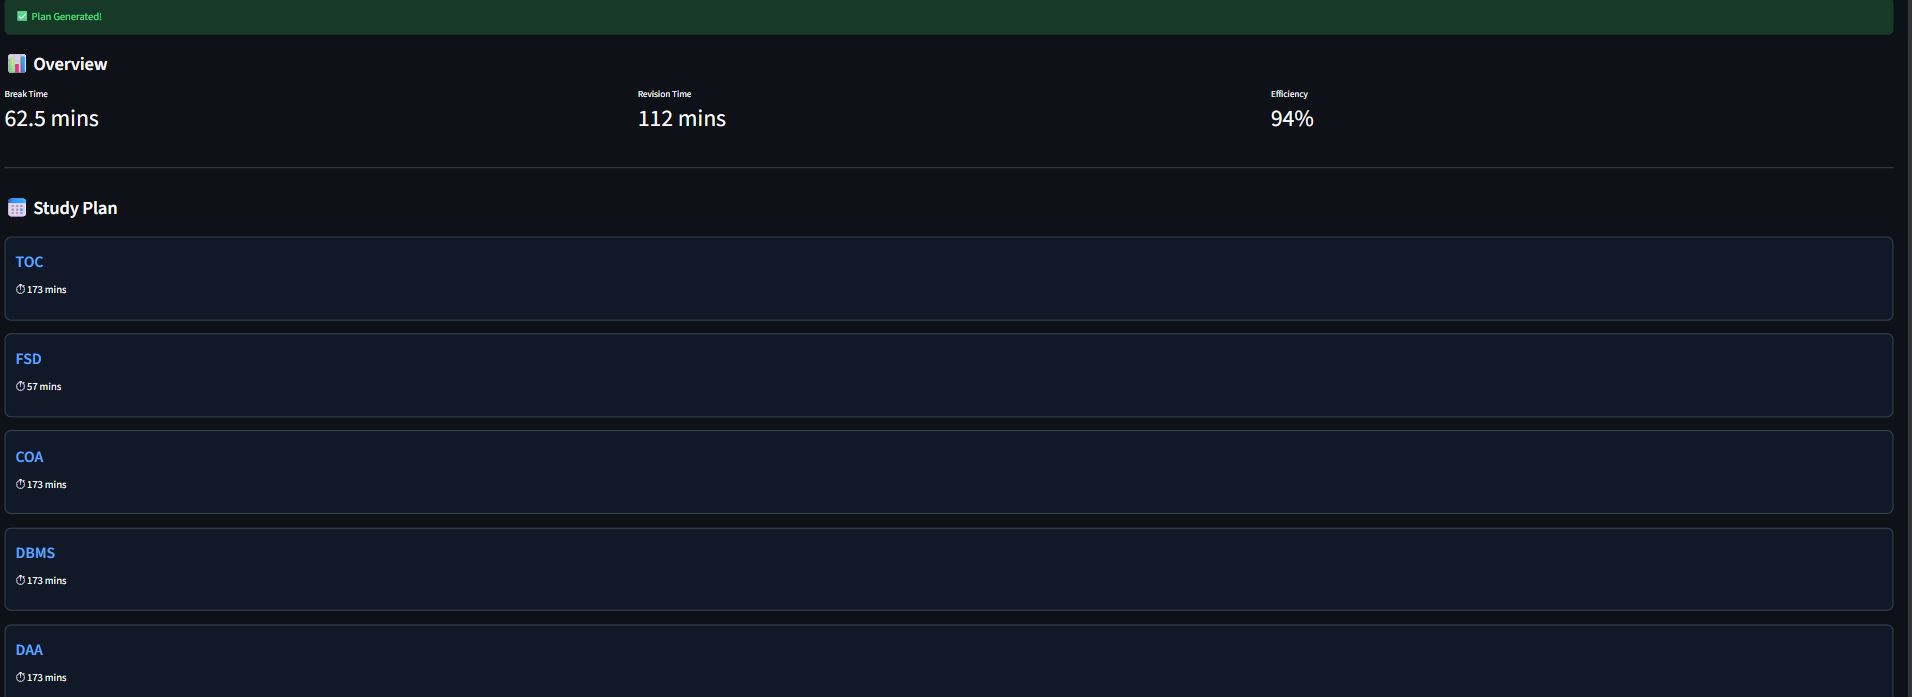
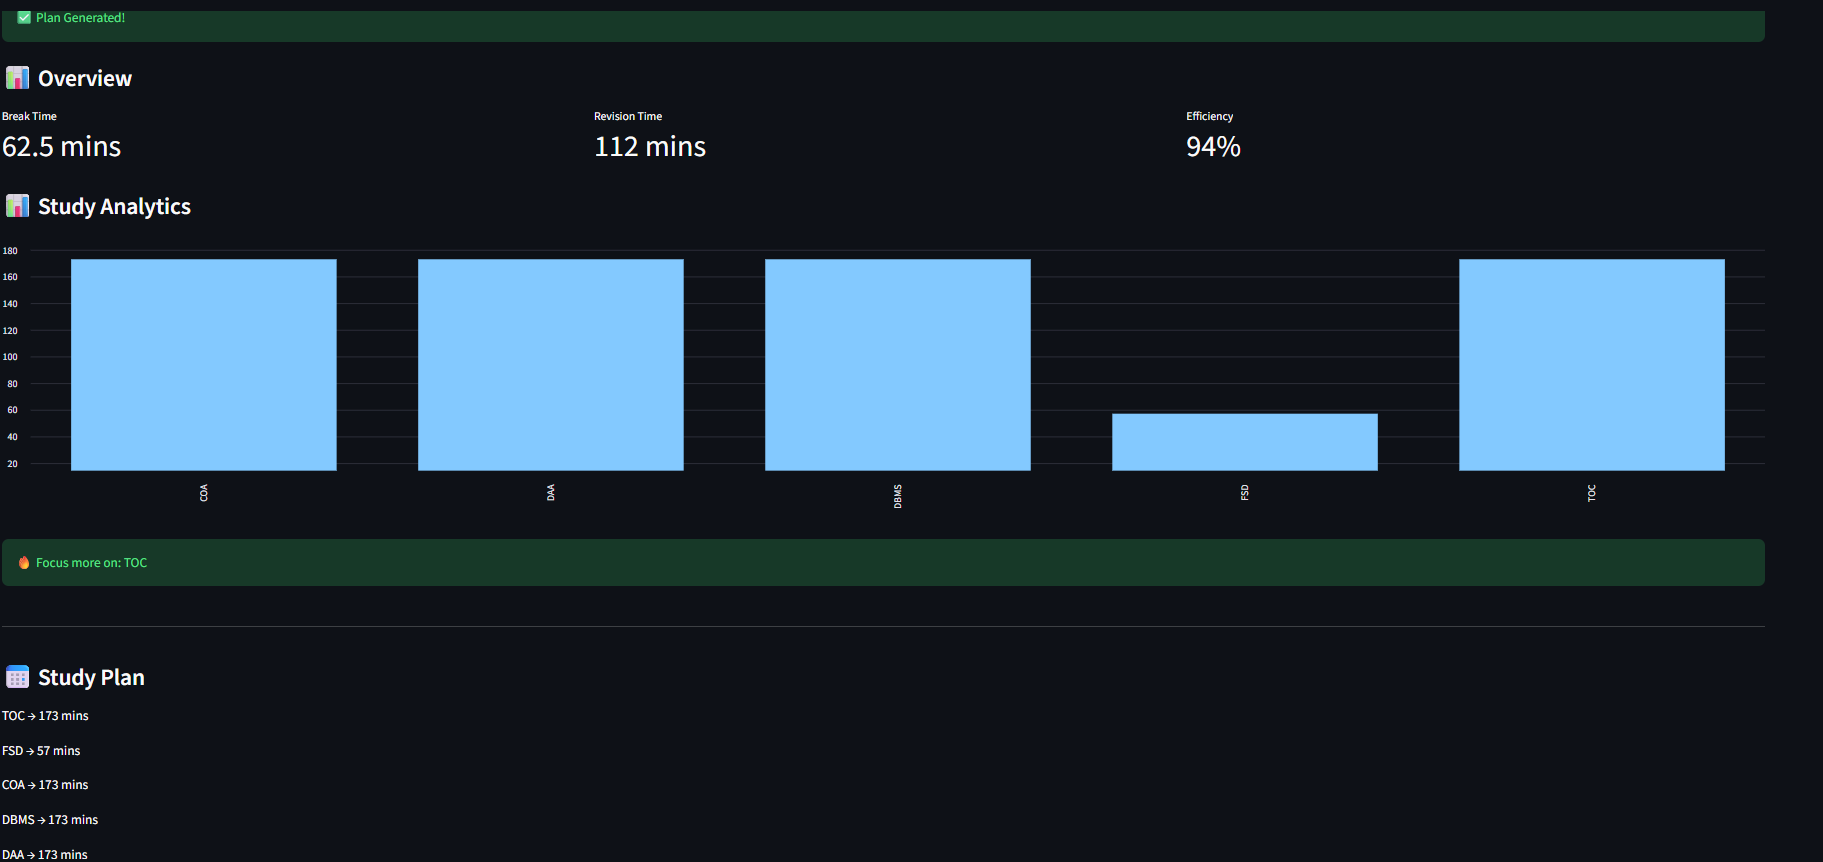
made changes in code

diff --git a/app_streamlit.py b/app_streamlit.py
@@ -4,12 +4,12 @@ from scheduler import generate_schedule
 from calendar_integration import create_events
 from fpdf import FPDF
 
+# ⚙ PAGE CONFIG
 st.set_page_config(
     page_title="Accessible Smart Study Planner",
     page_icon="🧠",
     layout="wide"
 )
-
 
 # 📄 PDF GENERATION
 def generate_pdf(result):
@@ -38,26 +38,14 @@ def generate_pdf(result):
         pdf.cell(60, 10, slot["subject"], 1)
         pdf.ln()
 
-    pdf.ln(5)
-
-    pdf.set_font("Arial", 'B', 12)
-    pdf.cell(200, 10, "Summary", ln=True)
-
-    pdf.set_font("Arial", size=10)
-    pdf.cell(200, 8, f"Break Time: {result['break_time']} mins", ln=True)
-    pdf.cell(200, 8, f"Revision Time: {result['revision_time']} mins", ln=True)
-    pdf.cell(200, 8, f"Efficiency Score: {result['score']}%", ln=True)
-
     file_path = "study_plan.pdf"
     pdf.output(file_path)
-
     return file_path
 
 
-# ⚙ PAGE CONFIG
-
-
+# 🧠 TITLE
 st.title("🧠 Smart Study Planner")
+st.caption("Accessible and user-friendly study planner with structured output")
 
 # 🎯 PROBLEM ALIGNMENT
 st.markdown("""
@@ -65,22 +53,17 @@ st.markdown("""
 Students struggle to effectively manage study time and prioritize subjects.
 
 ### 💡 Solution
-This application intelligently allocates study time based on subject priority,
-available time, and generates optimized study plans with structured timetables.
+This application intelligently allocates study time based on subject priority.
 
 ### 🧠 Approach
-- Uses weighted priority-based allocation
-- Generates interleaved schedules
-- Optimizes learning efficiency
+- Priority-based allocation
+- Interleaved scheduling
+- Optimized learning efficiency
 """)
-
-st.caption("AI-powered personalized study scheduling")
-
-
 
 st.divider()
 
-# 📥 INPUT SECTION
+# 📥 INPUT
 st.subheader("📥 Input Details")
 
 col1, col2, col3 = st.columns(3)
@@ -94,38 +77,40 @@ with col2:
 with col3:
     minutes = st.number_input("Minutes", min_value=0, value=0)
 
+st.caption("Enter subjects and priorities carefully (comma-separated)")
+
 subjects_input = st.text_input(
-    "Subjects (comma separated)",
+    "Subjects",
     placeholder="TOC, DBMS, FSD",
     help="Enter subjects separated by commas"
 )
+
 priority_input = st.text_input(
-    "Priorities (high/medium/low)",
+    "Priorities",
     placeholder="high, medium, low",
     help="Enter priority for each subject"
 )
 
 # 💡 SUGGESTION ENGINE
 if subjects_input and priority_input:
-    subjects = [s.strip().upper() for s in subjects_input.split(",")]
-    priorities_list = [p.strip().lower() for p in priority_input.split(",")]
+    subjects_temp = [s.strip().upper() for s in subjects_input.split(",")]
+    priorities_temp = [p.strip().lower() for p in priority_input.split(",")]
 
-    if len(subjects) == len(priorities_list):
+    if len(subjects_temp) == len(priorities_temp):
         weight_map = {"high": 3, "medium": 2, "low": 1}
-        total_weight = sum(weight_map.get(p, 2) for p in priorities_list)
+        total_weight = sum(weight_map.get(p, 2) for p in priorities_temp)
 
         if total_weight > 0:
             st.info("💡 Suggested Time Distribution")
-            for i, sub in enumerate(subjects):
-                percent = (weight_map.get(priorities_list[i], 2) / total_weight) * 100
+            for i, sub in enumerate(subjects_temp):
+                percent = (weight_map.get(priorities_temp[i], 2) / total_weight) * 100
                 st.write(f"{sub} → {int(percent)}%")
 
 st.divider()
 
-# 🚀 GENERATE PLAN
+# 🚀 GENERATE
 if st.button("🚀 Generate Study Plan", use_container_width=True):
 
-    # 🔒 VALIDATION
     if not subjects_input.strip():
         st.error("⚠ Subjects cannot be empty")
         st.stop()
@@ -141,43 +126,23 @@ if st.button("🚀 Generate Study Plan", use_container_width=True):
         st.error("⚠ Subjects and priorities must match")
         st.stop()
 
-    valid_priorities = {"high", "medium", "low"}
-    for p in priorities_list:
-        if p not in valid_priorities:
-            st.error("⚠ Priority must be high, medium, or low")
-            st.stop()
-
     priorities = {subjects[i]: priorities_list[i] for i in range(len(subjects))}
 
-    if days == 0:
-        total_minutes = (hours * 60) + minutes
-        hours_per_day = None
-    else:
-        total_minutes = (days * hours * 60) + minutes
-        hours_per_day = hours
+    total_minutes = (hours * 60) + minutes if days == 0 else (days * hours * 60) + minutes
 
     if total_minutes <= 0:
         st.error("⚠ Time must be greater than 0")
         st.stop()
 
-    total_hours = total_minutes / 60
-
     try:
-        result = generate_schedule(
-            total_hours=total_hours,
-            subjects=subjects,
-            priorities=priorities,
-            days=days,
-            hours_per_day=hours_per_day
-        )
-
+        result = generate_schedule(total_minutes / 60, subjects, priorities, days, hours)
         st.session_state["result"] = result
         st.success("✅ Plan Generated!")
     except Exception as e:
-        st.error(f"❌ Error generating schedule: {str(e)}")
+        st.error(f"❌ Error: {str(e)}")
         st.stop()
 
-# 📊 OUTPUT SECTION
+# 📊 OUTPUT
 if "result" in st.session_state:
 
     result = st.session_state["result"]
@@ -189,44 +154,46 @@ if "result" in st.session_state:
     col2.metric("Revision Time", f"{result['revision_time']} mins")
     col3.metric("Efficiency", f"{result['score']}%")
 
+    # 📊 ANALYTICS
+    st.subheader("📊 Study Analytics")
+
+    df_chart = pd.DataFrame(
+        list(result["study_plan"].items()),
+        columns=["Subject", "Minutes"]
+    )
+
+    st.bar_chart(df_chart.set_index("Subject"))
+
+    # 🤖 AI INSIGHT
+    top_subject = max(result["study_plan"], key=result["study_plan"].get)
+    st.success(f"🔥 Focus more on: {top_subject}")
+
     st.divider()
 
     # 📅 STUDY PLAN
     st.subheader("📅 Study Plan")
 
     for sub, mins in result["study_plan"].items():
-        st.markdown(
-            f"""
-            <div style="padding:15px;margin:10px 0;border-radius:10px;background:#111827;border:1px solid #374151;">
-                <h4 style="color:#60a5fa;">{sub}</h4>
-                <p style="color:white;">⏱ {mins} mins</p>
-            </div>
-            """,
-            unsafe_allow_html=True
-        )
+        st.write(f"{sub} → {mins} mins")
 
-    # 📊 TIMETABLE
+    # 📊 TIMETABLE (FIXED DAY FORMAT)
     st.subheader("📊 Timetable")
 
     table_data = []
 
     for slot in result["time_slots"]:
-        if "day" in slot:
-            table_data.append({
-                "Day": f"Day {slot['day']}",
-                "Start": slot["start"],
-                "End": slot["end"],
-                "Subject": slot["subject"]
-            })
-        else:
-            table_data.append({
-                "Day": "-",
-                "Start": slot["start"],
-                "End": slot["end"],
-                "Subject": slot["subject"]
-            })
+        table_data.append({
+            "Day": f"Day {slot['day']}" if "day" in slot else "Full Plan",
+            "Start": slot["start"],
+            "End": slot["end"],
+            "Subject": slot["subject"]
+        })
 
     df = pd.DataFrame(table_data)
+
+    if "Day" in df.columns:
+        df = df.sort_values(by=["Day", "Start"])
+
     st.dataframe(df, use_container_width=True, hide_index=True)
 
     st.divider()
@@ -234,19 +201,13 @@ if "result" in st.session_state:
     # 📅 GOOGLE CALENDAR
     if st.button("📅 Add to Google Calendar"):
         try:
-            create_events(result["study_plan"])
+            create_events(result["time_slots"])
             st.success("✅ Added to Google Calendar!")
         except Exception as e:
-            st.error(f"❌ Calendar Error: {str(e)}")
+            st.error(str(e))
 
     # 📄 PDF DOWNLOAD
     if st.button("📄 Generate PDF"):
         file_path = generate_pdf(result)
-
         with open(file_path, "rb") as f:
-            st.download_button(
-                "⬇ Download PDF",
-                f,
-                "study_plan.pdf",
-                "application/pdf"
-            )
+            st.download_button("⬇ Download PDF", f, "study_plan.pdf")

diff --git a/README.md b/README.md
@@ -140,6 +140,9 @@ project-root/
 ├── requirements.txt           # Dependencies
 ├── README.md
 │
+├── tests/                     # 🧪 Testing folder
+│   └── test_scheduler.py      # Unit tests for scheduler
+│
 └── assets/
     └── screenshots/
         ├── input.png
